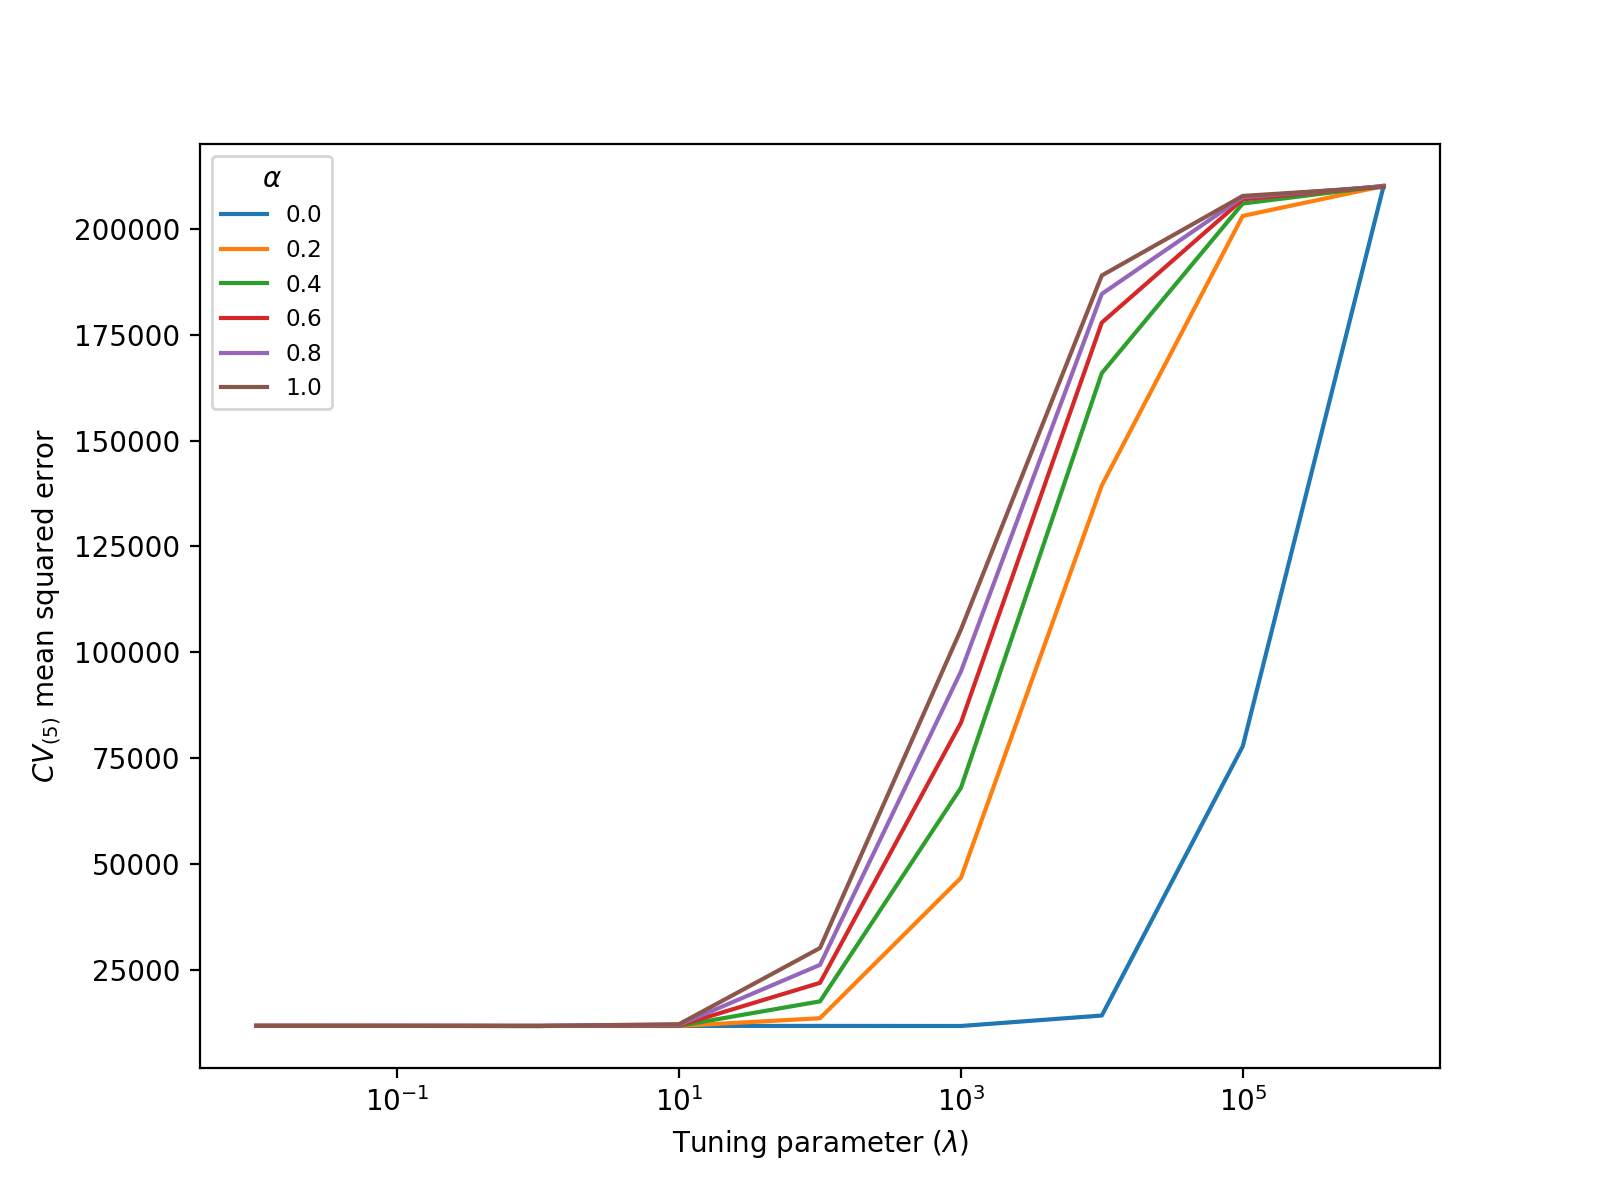
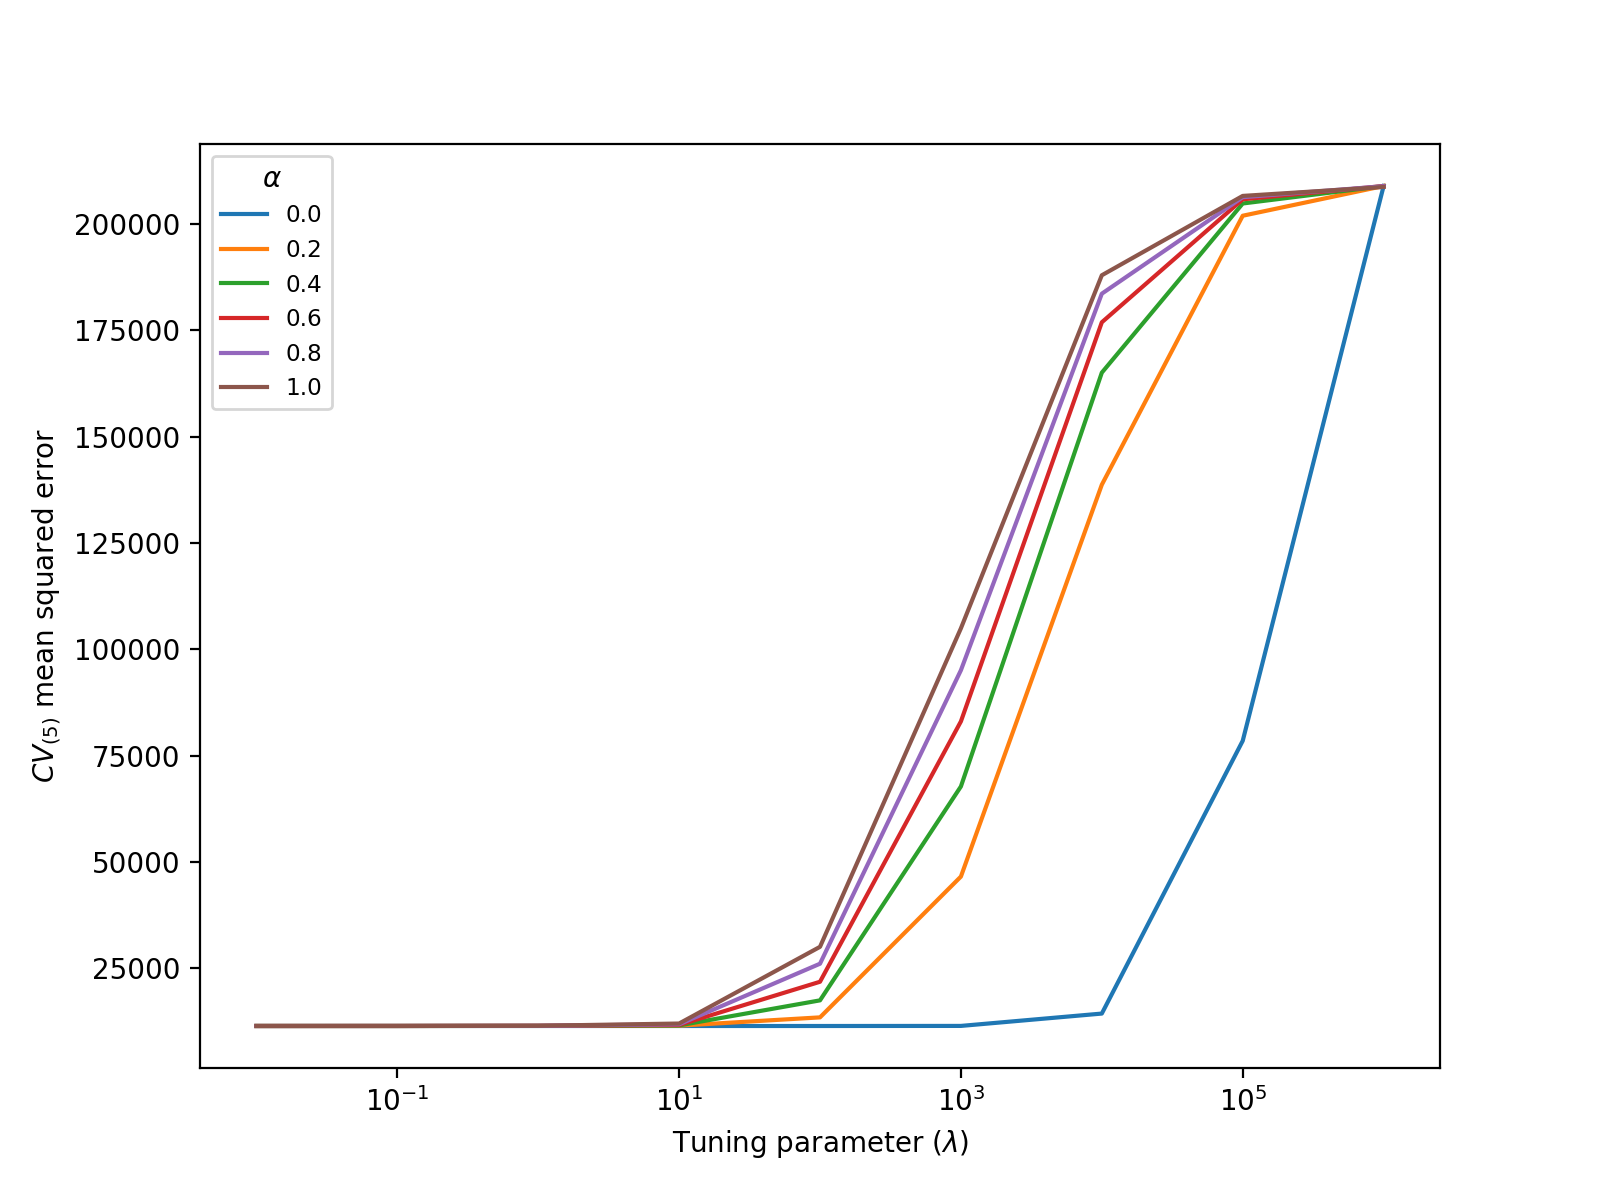
Another quick fix+rerun script

diff --git a/ErenAkgunduz_Assign2.py b/ErenAkgunduz_Assign2.py
@@ -161,7 +161,7 @@ def main():
     cv_error = cross_validation(data)
     plt.figure(figsize=(8, 6))
     plt.xscale("log")
-    [plt.plot(l, cv, label=f"{a[i]}") for i, cv in enumerate(cv_error.T)]
+    [plt.plot(l, cv, label=f"{round(a[i], 1)}") for i, cv in enumerate(cv_error.T)]
     plt.xlabel(r"Tuning parameter ($\lambda$)")
     plt.ylabel(r"$CV_{(5)}$ mean squared error")
     plt.legend(title=r"$\alpha$", fontsize="small")
